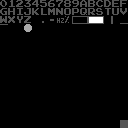
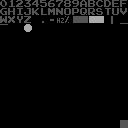
show active frames

Changed region(s): [[0.5625, 0.125, 0.8125, 0.1875]]

diff --git a/scripts/build_hz_tiles.py b/scripts/build_hz_tiles.py
@@ -11,7 +11,7 @@ for i in range(256):
     for j in range(8):
         bit = i & (1 << j)
         if bit > 0:
-            tileset[8*row:8*(row+1),8*col+j] = (0x55, 0x55, 0x55)
+            tileset[8*row:8*(row+1)-1,8*col+j] = (0x55, 0x55, 0x55)
 
 
 
